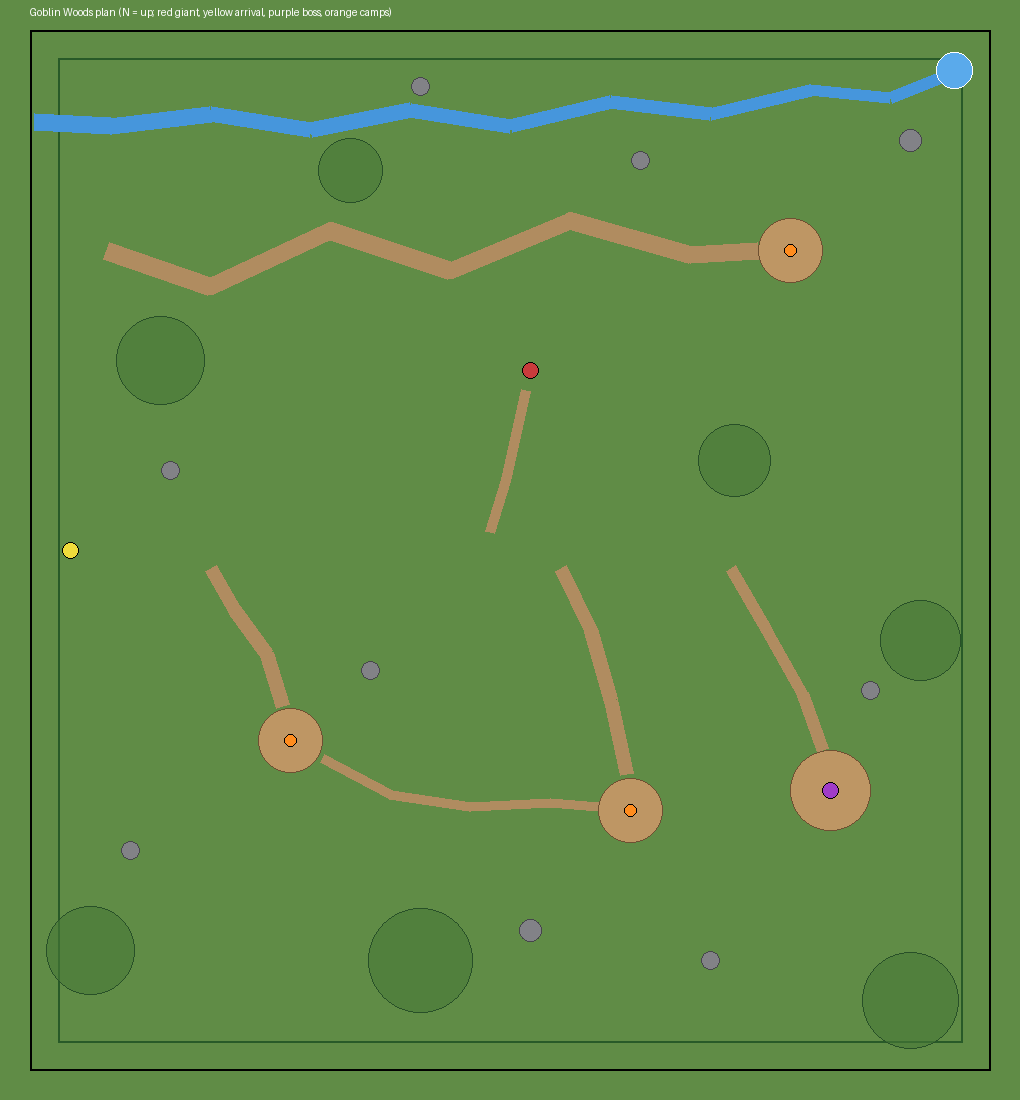
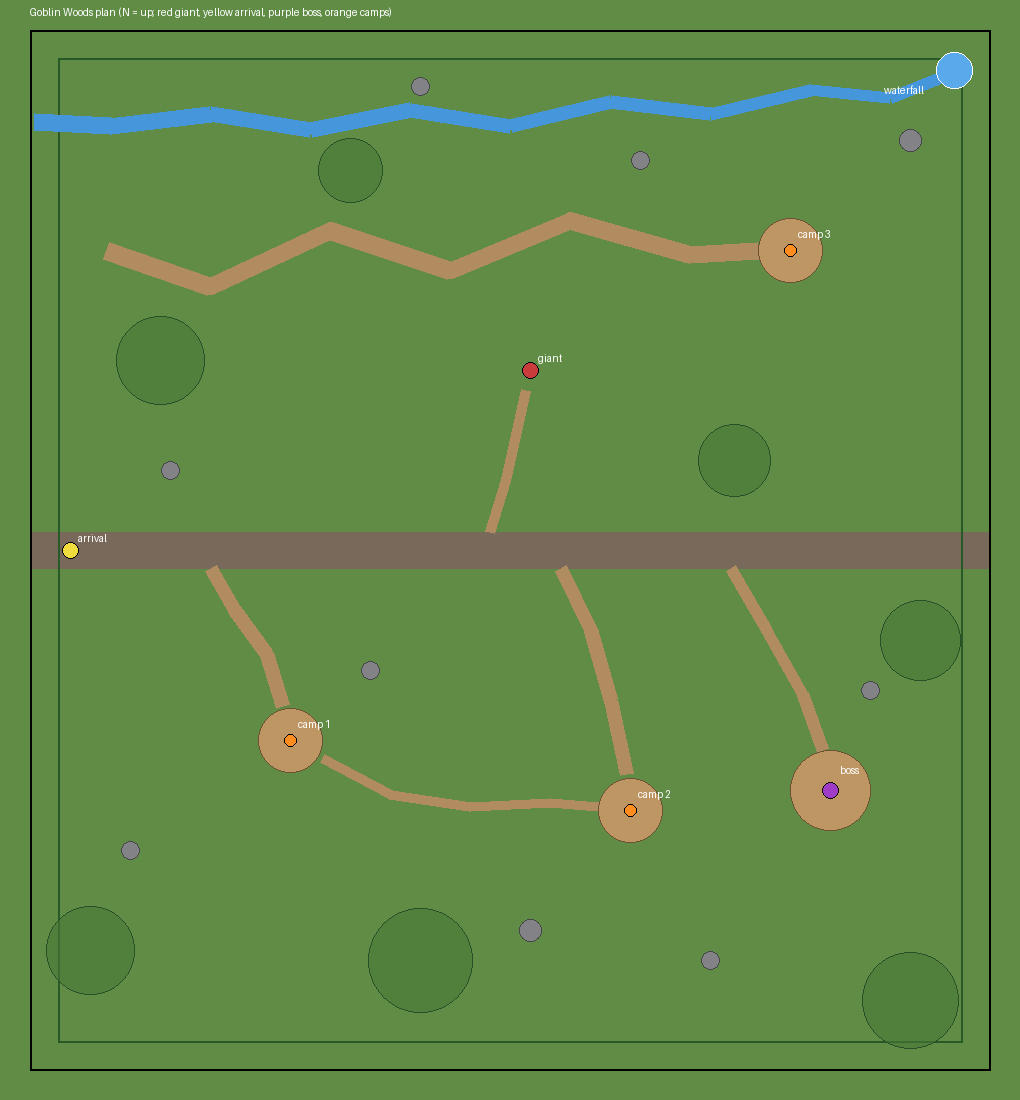
숲 배치 계획 도구: 길(road)·이름표·시안 나란히 시트(--concept)

Changed region(s): [[0.0304, 0.4636, 0.9725, 0.5255]]

diff --git a/tools/woods_plan_check.py b/tools/woods_plan_check.py
@@ -1,6 +1,6 @@
 """Goblin Woods layout plan: validate + top-down render (A23-76).
 
-py tools/woods_plan_check.py [plan.json] [--png out.png]
+py tools/woods_plan_check.py [plan.json] [--png out.png] [--concept]  (--concept also writes woods_plan_vs_concept.jpg next to the png)
 
 Reads docs/design/woods_layout_plan_2026-10-08.json (world studs, X east, Z south) and checks that
 the pieces do not fight each other, then draws a top-down sheet. Exit code 1 if any check fails.
@@ -9,6 +9,8 @@ import json
 import math
 import sys
 from pathlib import Path
+
+from PIL import Image
 
 ROOT = Path(__file__).resolve().parent.parent
 PLAN = ROOT / "docs/design/woods_layout_plan_2026-10-08.json"
@@ -137,7 +139,7 @@ def check(plan):
 
 
 def render(plan, out):
-    from PIL import Image, ImageDraw
+    from PIL import ImageDraw
 
     land = plan["land"]
     S = 2.0  # px per stud
@@ -154,6 +156,8 @@ def render(plan, out):
         x, y = P(c)
         d.ellipse([x - r * S, y - r * S, x + r * S, y + r * S], fill=fill, outline=outline)
 
+    road_z = plan["keep"]["crown_road_z"]
+    d.rectangle([P((land["MinX"], road_z - 9)), P((land["MaxX"], road_z + 9))], fill=(120, 105, 90, 255))
     ins = plan["edge_rim"]["inset"]
     d.rectangle([P((land["MinX"] + ins, land["MinZ"] + ins)), P((land["MaxX"] - ins, land["MaxZ"] - ins))],
                 outline=(40, 90, 40, 255), width=2)
@@ -178,10 +182,17 @@ def render(plan, out):
         circ(q, 4, col, (0, 0, 0, 255))
     for q in k["camps"]:
         circ(q, 3, (255, 140, 30, 255), (0, 0, 0, 255))
+    for i, q in enumerate(k["camps"]):
+        d.text((P(q)[0] + 8, P(q)[1] - 22), f"camp {i + 1}", fill=(255, 255, 255, 255))
+    d.text((P(k["boss"])[0] + 10, P(k["boss"])[1] - 26), "boss", fill=(255, 255, 255, 255))
+    d.text((P(k["giant"])[0] + 8, P(k["giant"])[1] - 18), "giant", fill=(255, 255, 255, 255))
+    d.text((P(k["arrival"])[0] + 8, P(k["arrival"])[1] - 18), "arrival", fill=(255, 255, 255, 255))
+    d.text((P(wf["c"])[0] - 70, P(wf["c"])[1] + 14), "waterfall", fill=(255, 255, 255, 255))
     d.rectangle([P((land["MinX"], land["MinZ"])), P((land["MaxX"], land["MaxZ"]))], outline=(0, 0, 0, 255), width=2)
     d.text((pad, 6), "Goblin Woods plan (N = up; red giant, yellow arrival, purple boss, orange camps)", fill=(255, 255, 255, 255))
     out.parent.mkdir(parents=True, exist_ok=True)
     im.save(out)
+    return im
 
 
 def main():
@@ -193,6 +204,8 @@ def main():
         if args[i] == "--png":
             out = Path(args[i + 1])
             i += 2
+        elif args[i] == "--concept":
+            i += 1
         else:
             plan_path = Path(args[i])
             i += 1
@@ -202,7 +215,15 @@ def main():
         print("ERROR", e)
     for w in warns:
         print("warn ", w)
-    render(plan, out)
+    im = render(plan, out)
+    if "--concept" in args:
+        c = Image.open(ROOT / "art/review/concept/Concept_GoblinWoods.jpg").convert("RGB")
+        h = im.height
+        c = c.resize((int(c.width * h / c.height), h))
+        sheet = Image.new("RGB", (c.width + im.width, h), (255, 255, 255))
+        sheet.paste(c, (0, 0))
+        sheet.paste(im.convert("RGB"), (c.width, 0))
+        sheet.save(out.with_name("woods_plan_vs_concept.jpg"), quality=88)
     print(f"{len(errs)} errors, {len(warns)} warnings; sheet {out}")
     return 1 if errs else 0
 
